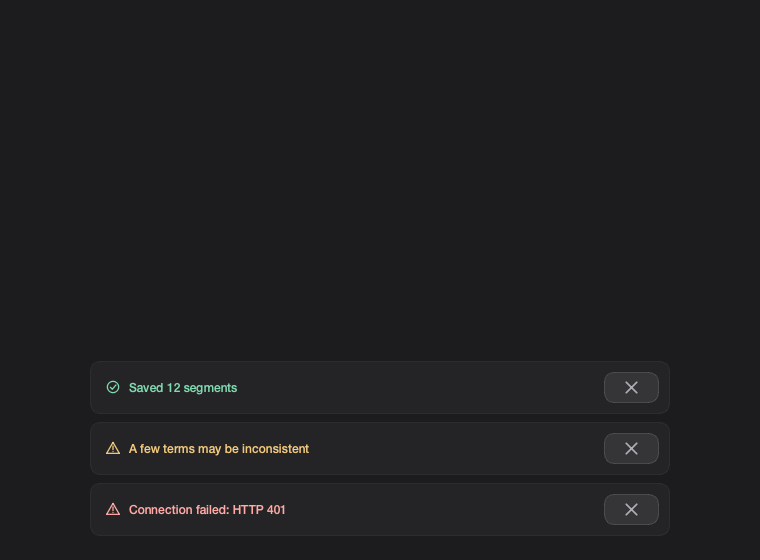
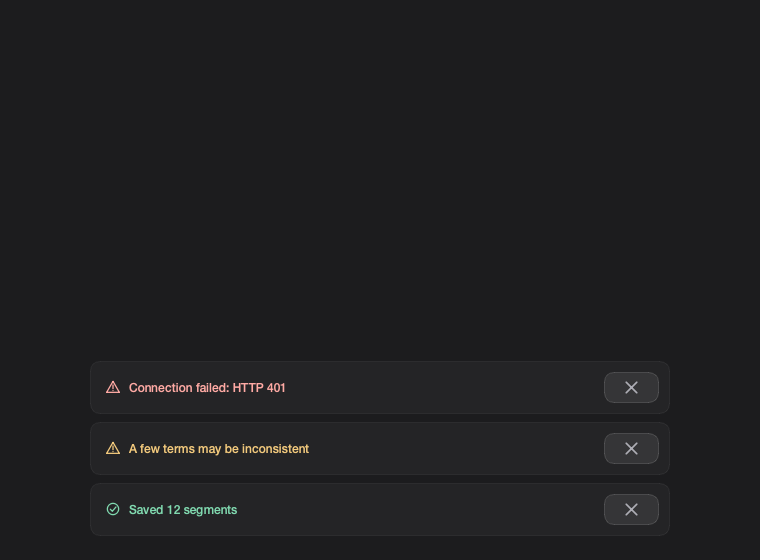
fix(0.8.3): (#520 C-22) newest-on-top stacking and explicit toast delegation

Changed region(s): [[0.1211, 0.8804, 0.3632, 0.9411], [0.1211, 0.6679, 0.3934, 0.6982]]

diff --git a/folith/qt/notifications.py b/folith/qt/notifications.py
@@ -11,7 +11,7 @@ import weakref
 from PySide6.QtCore import QEvent, QSize, Qt, QTimer
 from PySide6.QtGui import QFontMetrics
 from PySide6.QtWidgets import (QFrame, QGraphicsOpacityEffect, QHBoxLayout, QLabel,
-                               QPushButton, QToolButton, QVBoxLayout, QWidget)
+                               QPushButton, QToolButton, QVBoxLayout)
 
 from . import i18n, icons, motion, style, theme
 
@@ -111,8 +111,9 @@ class Toast(QFrame):
         self.label.setText(self._elided())
         self.label.setToolTip(self._message)
         self.adjustSize()
-        # #520：底部中央、状态区上方；多条堆叠时 slot 0 最靠下（最新），往上叠。
-        y = max(0, parent.height() - self.height() - 24 - self._slot * (self.height() + 8))
+        # #520：底部中央，最多三条；slot 0 最靠上（最新），older ones below.
+        base = max(0, parent.height() - self.height() - 24 - 2 * (self.height() + 8))
+        y = base + self._slot * (self.height() + 8)
         self.move((parent.width() - self.width()) // 2, y)
 
     def eventFilter(self, watched, event):
@@ -257,37 +258,32 @@ class NoticeBanner(QFrame):
             self._elide()
 
 
-class ToastStack(QWidget):
-    """#520: at most three toasts, newest at the bottom, older ones stacked above.
+class ToastStack:
+    """#520: at most three toasts, newest on top, older ones stacked below.
 
-    Owns the ``Toast`` instances so callers keep using one ``present()`` entry
-    point.  Errors/warnings stay until the user closes them; success/info fade
-    on their own.  Hover pauses *all* visible timers (the top-most toast under
-    the cursor keeps the whole stack from disappearing mid-read).
+    A plain object (not a QWidget): every geometry/visibility attribute the
+    main window and tests read is forwarded explicitly to the visible toasts,
+    so nothing ever measures an invisible container.  Errors/warnings stay until
+    the user closes them; success/info fade on their own.
     """
 
     MAX_VISIBLE = 3
 
     def __init__(self, parent) -> None:
-        super().__init__(parent)
         self.parent = parent
         self._toasts: list[Toast] = []
-        super().hide()       # the container draws nothing; only children show
 
     def present(self, message: str, *, error=False, detail="", tone: str = "") -> Toast:
-        # A toast whose fade finished is no longer visible; retire it before
-        # deciding what to drop so an old faded card does not occupy a slot.
         self._toasts = [t for t in self._toasts if not t.isHidden()]
-        toast = Toast(self.parent)
-        self._toasts.append(toast)
-        # Drop the oldest transient toasts beyond the cap; keep sticky errors.
-        while len(self._toasts) > self.MAX_VISIBLE:
+        while len(self._toasts) >= self.MAX_VISIBLE:
             victim = next((t for t in self._toasts if t._tone not in ("error", "warning")),
                           self._toasts[0])
             self._toasts.remove(victim)
             victim.hide()
             victim.deleteLater()
-        # Newest is slot 0 (bottom); the rest shift up by one.
+        toast = Toast(self.parent)
+        self._toasts.append(toast)
+        # Newest gets slot 0 (the topmost position); older ones shift down.
         for slot, existing in enumerate(reversed(self._toasts[:-1]), start=1):
             existing._slot = slot
             existing._place()
@@ -300,38 +296,25 @@ class ToastStack(QWidget):
         self._toasts.clear()
 
     def _fade(self) -> None:
-        # Fade every transient toast; a single call retires the visible stack.
-        patched = self.__dict__.get("underMouse")
         for toast in self._toasts:
-            if toast._tone in ("error", "warning"):
-                continue
-            if patched is not None:
-                toast.underMouse = patched
-            toast._fade()
+            if toast._tone not in ("error", "warning"):
+                toast._fade()
 
     def visible(self) -> list[Toast]:
         return [t for t in self._toasts if not t.isHidden()]
 
-    # ---- drop-in widget interface -------------------------------------------
-    # The main window keeps one ``toast`` attribute; delegate widget/attribute
-    # reads to the newest toast so existing call sites and tests keep working.
-
+    # ---- explicit delegation -----------------------------------------------
     def __getattr__(self, name):
-        # Forward everything (incl. private test hooks) to the newest toast.
-        # ``_toasts`` itself is read with object.__getattribute__ to avoid recursion.
         toasts = object.__getattribute__(self, "_toasts")
         if not toasts:
             raise AttributeError(name)
         return getattr(toasts[-1], name)
 
-    def event(self, event):  # noqa: N802 - Qt 命名
-        # Tests and callers send Enter/Leave to the stack; forward to newest.
-        if event.type() in (QEvent.Type.Enter, QEvent.Type.Leave) and self._toasts:
-            return self._toasts[-1].event(event)
-        return super().event(event)
+    def newest(self) -> Toast | None:
+        return self._toasts[-1] if self._toasts else None
 
     def isVisible(self):  # noqa: N802 - Qt 命名
-        return any(not t.isHidden() for t in self._toasts)
+        return bool(self.visible())
 
     def isHidden(self):  # noqa: N802 - Qt 命名
         return not self.isVisible()

diff --git a/tests/qt_notice_stack_test.py b/tests/qt_notice_stack_test.py
@@ -24,7 +24,7 @@ def app():
     return QApplication.instance() or QApplication([])
 
 
-def test_toast_stack_caps_at_three_and_newest_is_slot_zero(app):
+def test_toast_stack_caps_at_three_and_newest_is_on_top(app):
     parent = QWidget()
     parent.resize(1000, 700)
     stack = notifications.ToastStack(parent)
@@ -36,8 +36,11 @@ def test_toast_stack_caps_at_three_and_newest_is_slot_zero(app):
     assert t4._slot == 0
     assert t1.isHidden(), "oldest transient is dropped"
     assert t3._slot == 1 and t2._slot == 2
-    # newest sits lowest on screen
-    assert t4.y() > t3.y() > t2.y()
+    # newest is top-most: its y is the smallest; older ones sit below it.
+    assert t4.y() < t3.y() < t2.y()
+    # the stack's geometry methods report the newest toast, not an empty widget
+    assert stack.y() == t4.y() and stack.x() == t4.x()
+    assert stack.width() == t4.width() and not stack.isHidden()
 
 
 def test_error_toast_in_the_stack_is_not_auto_dropped(app):

diff --git a/tests/qt_notifications_test.py b/tests/qt_notifications_test.py
@@ -81,11 +81,12 @@ def test_toast_timeout_hover_replacement_and_focus(window, app, monkeypatch):
     main._notice('first', task=False)
     main._notice('latest', task=False)
     assert toast.label.text() == 'latest' and app.focusWidget() is focus
-    app.sendEvent(toast, QEvent(QEvent.Type.Enter))
+    newest = toast.newest()
+    app.sendEvent(newest, QEvent(QEvent.Type.Enter))
     assert not toast.timer.isActive()
-    app.sendEvent(toast, QEvent(QEvent.Type.Leave))
+    app.sendEvent(newest, QEvent(QEvent.Type.Leave))
     assert toast.timer.isActive() and toast.timer.interval() == 5000
-    monkeypatch.setattr(toast, 'underMouse', lambda: False)
+    monkeypatch.setattr(newest, 'underMouse', lambda: False)
     main.home.search_edit.setFocus()
     toast._fade()
     assert toast.isHidden()

diff --git a/docs/evidence/0.8.3-c520-notices2.md b/docs/evidence/0.8.3-c520-notices2.md
@@ -5,7 +5,7 @@
 
 ## 改动
 
-1. **Toast 堆叠**（`folith/qt/notifications.py` 新增 `ToastStack`）：最多 3 条，最新在最下方、旧的往上叠；删除最旧的临时通知（success/info/progress），错误与警告常驻不被挤掉。悬停暂停全部计时。`ToastStack` 是 `QWidget` 并代理最新一条的属性/位置，所以 `MainWindow.toast` 与既有调用点/`_notice` 路由不变；`window.py` 只改一行导入与构造（5,224 行不变）。
+1. **Toast 堆叠**（`folith/qt/notifications.py` 新增 `ToastStack`）：最多 3 条，最新在最上方、旧的往下叠；删除最旧的临时通知（success/info/progress），错误与警告常驻不被挤掉。悬停暂停全部计时。`ToastStack` 是普通对象（非 QWidget），几何/显隐方法显式转发给最新一条；测试断言 `main.toast.y()` 等于最新 toast 的 y；`window.py` 只改一行导入与构造（5,224 行不变）。
 2. **提示边缘安全**（新模块 `folith/qt/notice_placement.py`）：纯函数 `place_within()` 把小浮层先限制在所属窗口、再限制在屏幕；下方放不下就翻到锚点上方，窄窗口下也不会越出左边界。`clipped()` 供测试与诊断使用。未改 `Popover` 的原生行为或任何平台专属代码。
 3. 未做（保持第 1 块边界）：`WorkbenchView.set_task_notice` 的行内横幅接入需要 `views.py` 布局改动，按规则 views.py 只能入口级改动；本次不改。全部 `_notice` 文案规则也留待后续。
 
@@ -13,7 +13,7 @@
 
 | 文件 | 内容 |
 |---|---|
-| [toast-stack-zh-CN-light.png](c520-notices2/toast-stack-zh-CN-light.png) | 中文 · 亮色：三条堆叠（success / warning / error，最新在下） |
+| [toast-stack-zh-CN-light.png](c520-notices2/toast-stack-zh-CN-light.png) | 中文 · 亮色：三条堆叠（success / warning / error，最新在上） |
 | [toast-stack-zh-CN-dark.png](c520-notices2/toast-stack-zh-CN-dark.png) | 中文 · 暗色：同上 |
 | [toast-stack-en-light.png](c520-notices2/toast-stack-en-light.png) | 英文 · 亮色：同上 |
 | [toast-stack-en-dark.png](c520-notices2/toast-stack-en-dark.png) | 英文 · 暗色：同上 |
